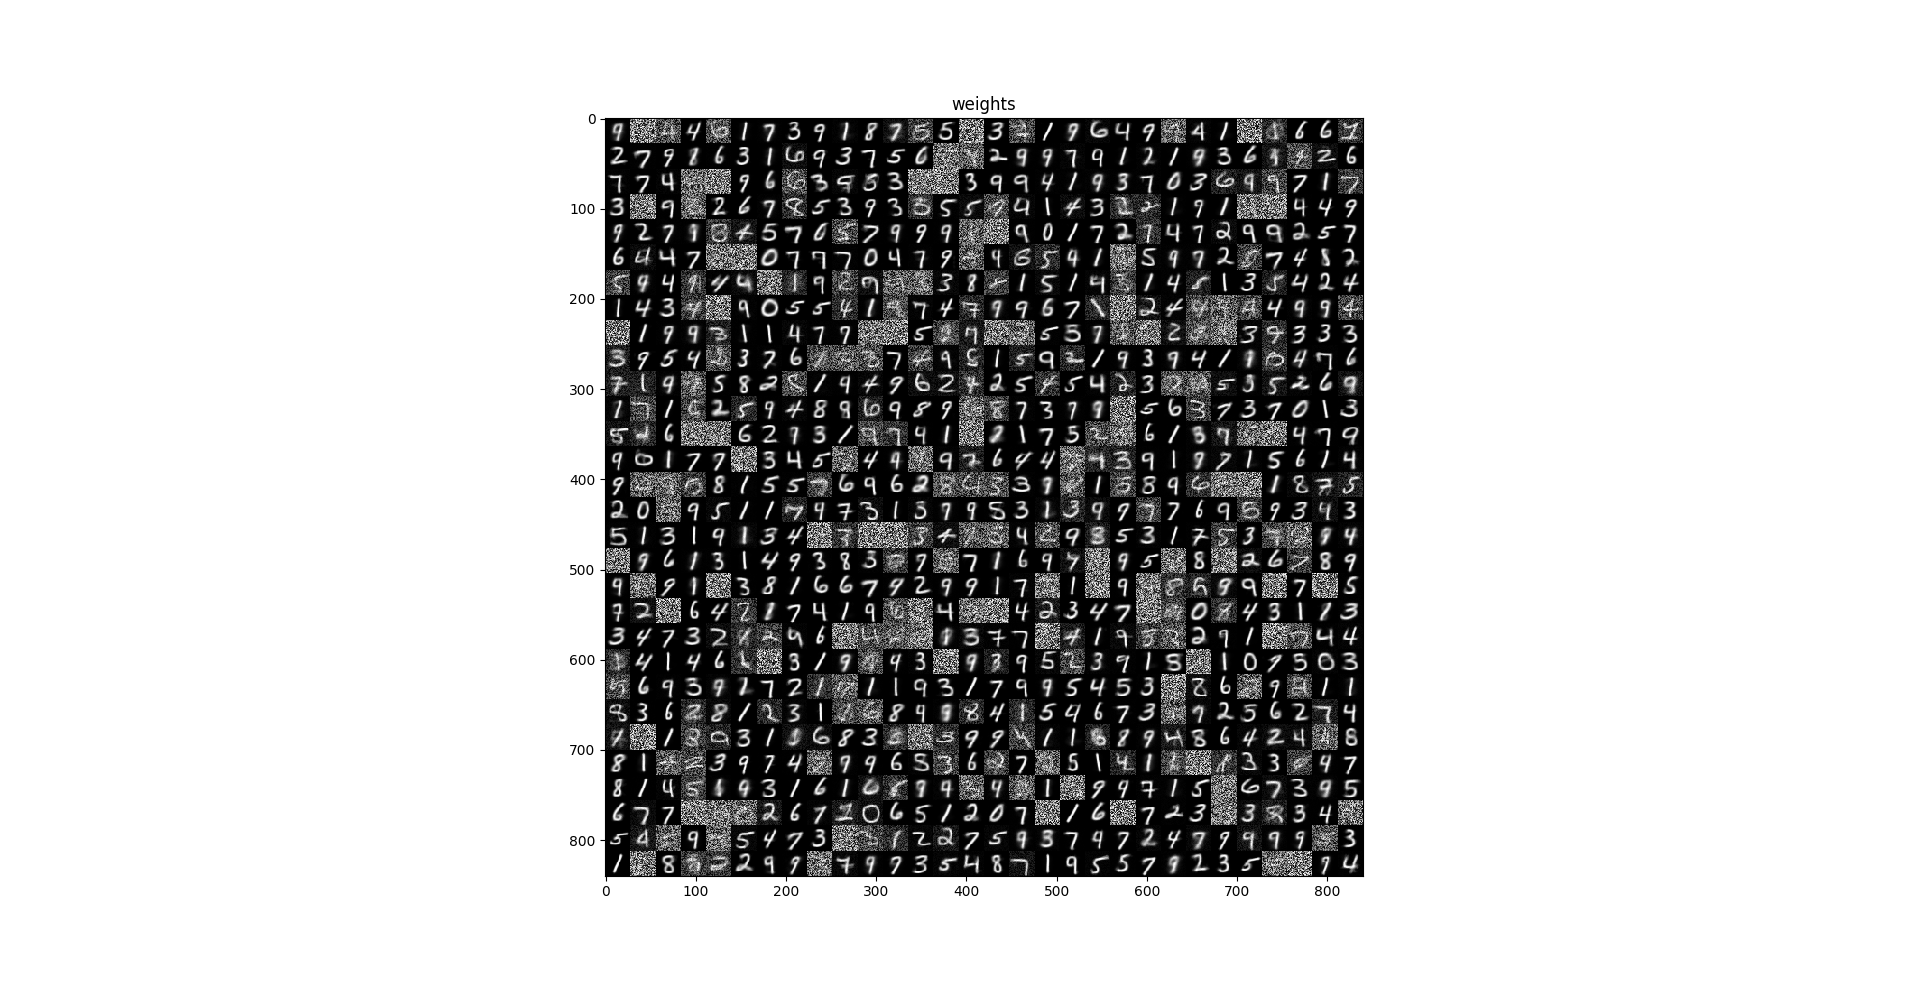
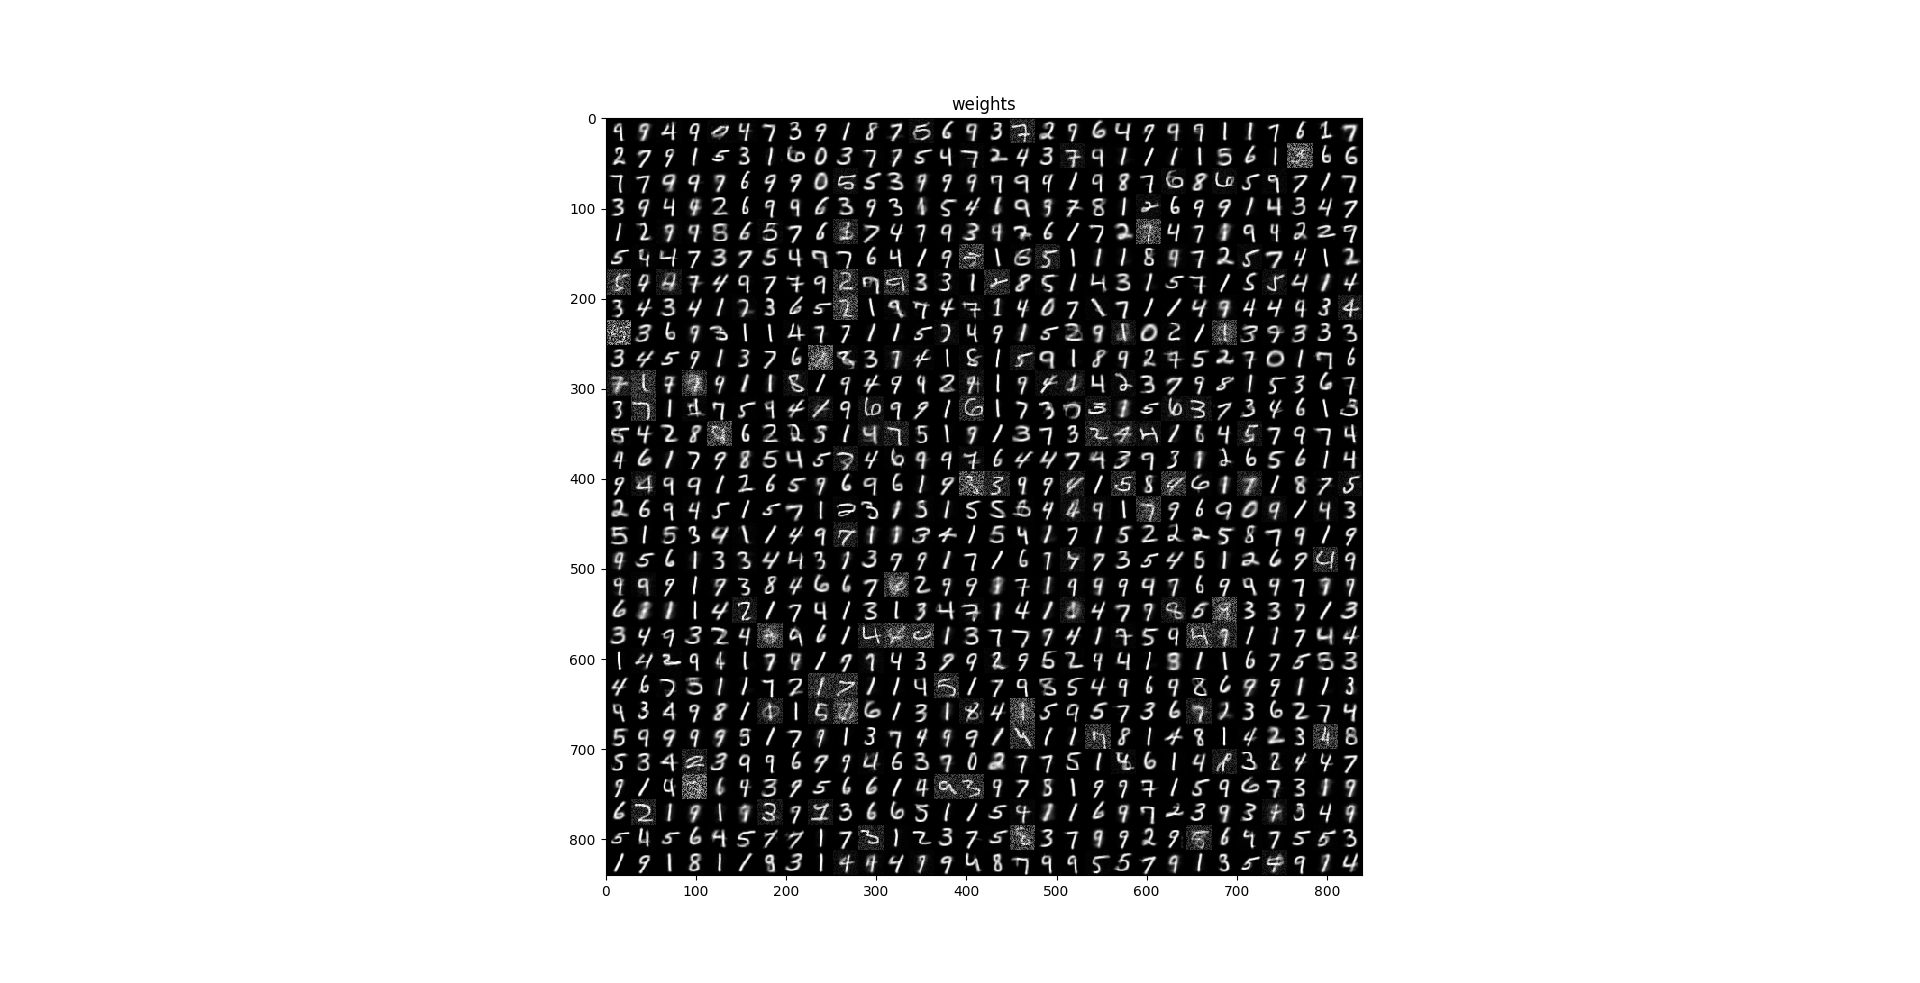
modify parameters

Changed region(s): [[0.3125, 0.1221, 0.7188, 0.9156]]

diff --git a/src/neuron.rs b/src/neuron.rs
@@ -65,8 +65,8 @@ impl Neuron {
 
         const TAU_P: f64 = 0.005;
         const TAU_M: f64 = 0.005;
-        const A_P: f64 = 0.5;
-        const A_M: f64 = 0.05;
+        const A_P: f64 = 0.8;
+        const A_M: f64 = 0.01;
         const MIN_W: f64 = 0.0;
 
         let t_len = inputs[0].len();
